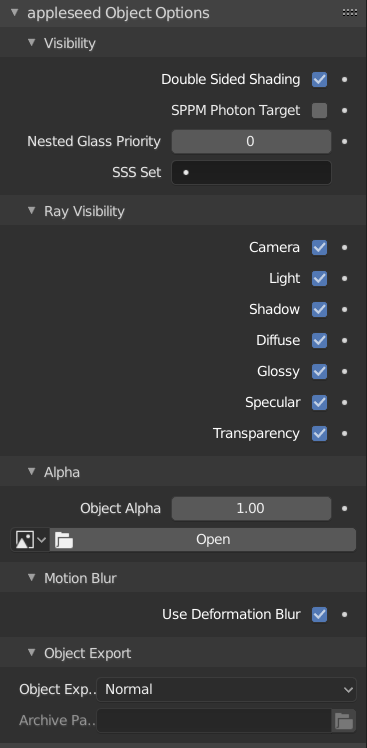
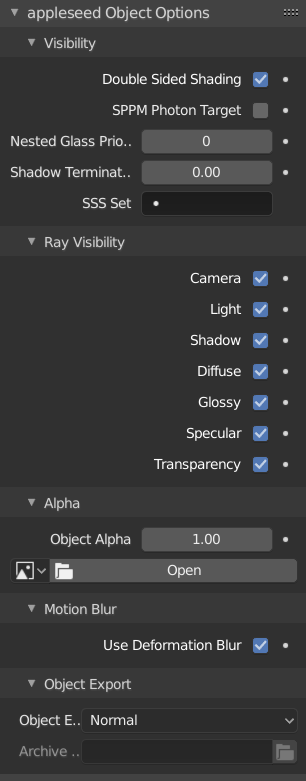
Update docs

diff --git a/docs/panels/object/object_options.rst b/docs/panels/object/object_options.rst
@@ -11,6 +11,8 @@ Object Options
     This flag indicates that the object should be a 'target' for the photons emitted from lamps in SPPM render mode.  Targeting a glass object with strong caustic effects this way can reduce rendering noise.
 - Nested Glass Priority:
     This allows you to set the priority for this object where it intersects with another object. A higher number equals a higher priority (i.e. 2 takes precedence over 1). This allows you to correctly render intersecting media like fluid in a glass.
+- Shadow Terminator Fix:
+    This dial adds a correction to shadows generated by the object.  With low poly objects it can help remove 'jaggy' shadows.
 - SSS Set:
     A user can assign this object to an existing SSS set by selecting it here.
 - Ray Visibility Flags:
